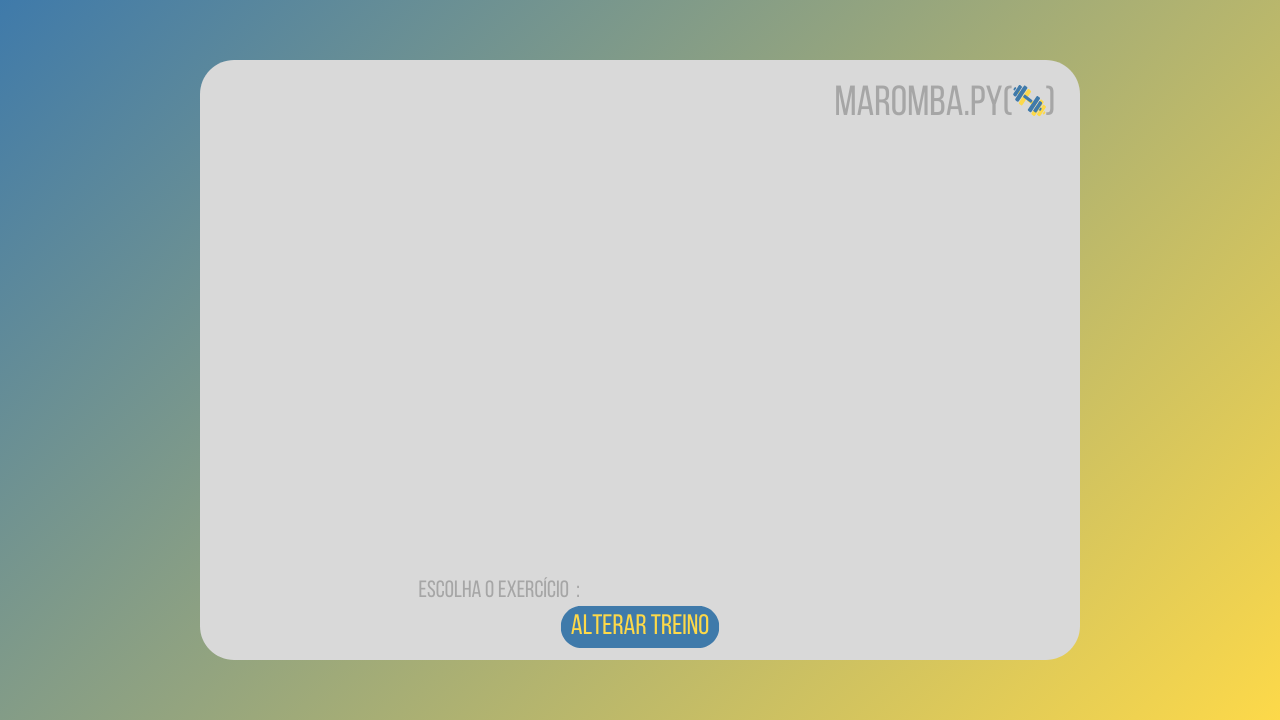
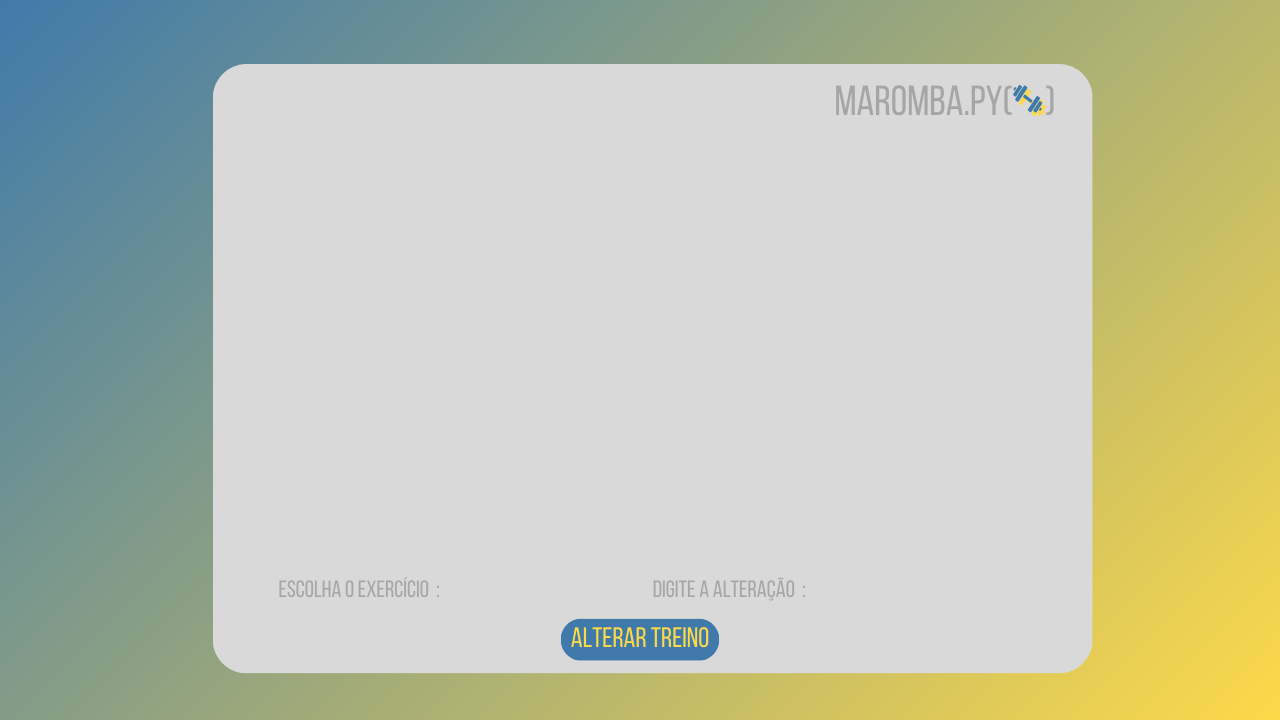
Função de alteração do treino praticamente operante, so resta escrever no banco de dados

Changed region(s): [[0.1562, 0.0611, 0.875, 0.9472], [0.2188, 0.7944, 0.4375, 0.825]]

diff --git a/maromba1.0.py b/maromba1.0.py
@@ -160,8 +160,46 @@ def Mostra_Treino(arq, nome):
 
     return coluna1, coluna2
 
-def Apaga_exercicio(arq, nome, exercicio):
-    print("trabalhando nisso")
+def Apaga_exercicio(arq, nome, exercicio_escolhido, alteracao):
+    arq = open(arq, "r") #Abrindo arquivos com treinos
+    treino = arq.read()
+    arq.close()
+    treino = treino.split("$") #Separando os treinos de cada pessoa
+    todos_os_treino = []
+
+    #colocando todos os treinos splitados em uma so lista
+    for pessoa in treino:
+        pessoa = pessoa.split("\n")
+        #retirando elementos vazios
+        for exercicio in pessoa:
+            if exercicio == "":
+                pessoa.remove(exercicio)
+        todos_os_treino.append(pessoa)
+
+    #procurando a pessoa
+    for pessoa in todos_os_treino:
+        if pessoa[0] == nome:
+            treino_esolhido = pessoa
+
+    #lista para realizar o replace
+    novo_treino = []
+
+    #procurando o exercicio para fazer a alteração
+    for dia in treino_esolhido:
+        if exercicio_escolhido in dia:
+
+            novo_dia = dia.replace(exercicio_escolhido, alteracao)
+            novo_treino.append(novo_dia)
+        else:
+            novo_treino.append(dia)
+
+    #Novo_treino é a lista do treino com a alteração agr é so escrever no arquivo
+
+
+
+
+#Teste da função
+#Apaga_exercicio("treinos.csv","gb", "supino reto", "agachamento")
 
 
 if Tela_Treinador_1:
@@ -224,13 +262,17 @@ if Tela_Treinador_2:
 
     tela_treinador = Image(centro, "TELA_TREINADOR_2.png")
     tela_treinador.draw(janela)
-    exercicio_escolhido = cria_input(680,590, 20,13)
+    #inputs de exercicios
+    exercicio_escolhido = cria_input(535,590, 20,13)
+    alteracao_do_exercicio = cria_input(900,590, 20,13)
     #Mostrando treino do aluno desejado
     textos = Mostra_Treino("treinos.csv", aluno)
     print(textos)
     if len(textos) == 2:
-        coluna1 = Text(Point(426, 375), textos[0].title())
-        coluna2 = Text(Point(853, 375), textos[1].title())
+        coluna1 = Text(Point(426, 360), textos[0].title())
+        coluna2 = Text(Point(853, 360), textos[1].title())
+        coluna1.setSize(10)
+        coluna2.setSize(10)
         coluna1.draw(janela)
         coluna2.draw(janela)
     else:
@@ -247,8 +289,9 @@ while Tela_Treinador_2:
 
         if 560 <= pos_mouseX <= 759 and 605 <= pos_mouseY <= 647:
             # Verificando texto
-            if exercicio_escolhido.getText() != "":
+            if exercicio_escolhido.getText() != "" and alteracao_do_exercicio.getText() != "":
                 exercicio = exercicio_escolhido.getText().strip().lower()
+                alteracao = alteracao_do_exercicio.getText().strip().lower()
 
                 exercicio_escolhido.undraw()
                 tela_treinador.undraw()
@@ -277,7 +320,9 @@ while Tela_Treino_Login:
 
     texto = Mostra_Treino("treinos.csv", dados['Username'])
     coluna1 = Text(Point(426,375), texto[0].title())
+    coluna1.setSize(11)
     coluna2 = Text(Point(853,375), texto[1].title())
+    coluna2.setSize(11)
     coluna1.draw(janela)
     coluna2.draw(janela)
     tecla = janela.getKey()
@@ -496,7 +541,7 @@ if Tela_Treino_no_cadastro:
 while Tela_Treino_no_cadastro:
 
     Nome_do_Treino = Text(Point(640,101), f"Treino de {username}")
-    Nome_do_Treino.setSize(17), Nome_do_Treino.setTextColor(color_rgb(166,166,166)), Nome_do_Treino.setStyle("bold")
+    Nome_do_Treino.setSize(15), Nome_do_Treino.setTextColor(color_rgb(166,166,166)), Nome_do_Treino.setStyle("bold")
     Nome_do_Treino.draw(janela)
     mostra_treino = []
 
